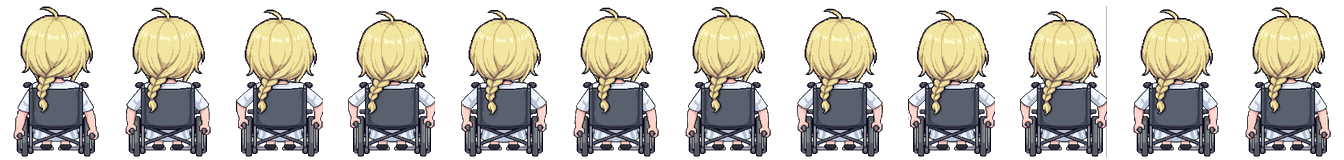
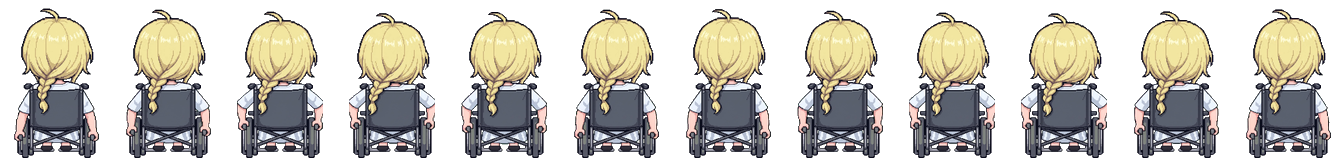
채린 위로 이동 시 허공의 검은 줄 제거 (영상 검은 띠 찌꺼기·떨어진 점 정리)
Claude-Session: https://claude.ai/code/session_01MBgVgKbFxkEXND4zuEcjdV

Changed region(s): [[0.0, 0.0312, 1.0, 1.0]]

diff --git a/tools/sprite_cleanup/chaerin_build.py b/tools/sprite_cleanup/chaerin_build.py
@@ -18,6 +18,7 @@ from pathlib import Path
 
 import numpy as np
 from PIL import Image
+from scipy import ndimage as ndi
 
 HERE = Path(__file__).resolve().parent
 sys.path.insert(0, str(HERE))
@@ -46,7 +47,8 @@ def read_video(path):
 
 def keyed(F, i):
     a = F[i].copy()
-    cols = np.nonzero(~(a.max(2) < 20).all(0))[0]     # 좌우 검은 띠 제거
+    cols = np.nonzero((a.max(2) > 45).mean(0) > 0.5)[0]   # 좌우 검은 띠 제거 (띠 경계의 덜 검은 줄까지)
+    cols = cols[3:-3]
     return Image.fromarray(key_green(a[:, cols[0]:cols[-1] + 1]), "RGBA")
 
 
@@ -84,6 +86,10 @@ def clip_frames(F, start, period, count, head_w):
 def place(o, cx):
     a = np.array(o)
     a[a[..., 3] < 60] = 0          # 영상 압축 때문에 생긴 희미한 테두리 제거
+    lab, n = ndi.label(a[..., 3] > 0)   # 몸에서 떨어진 작은 점·줄(검은 띠 찌꺼기 등) 제거
+    if n > 1:
+        sz = ndi.sum(np.ones(lab.shape), lab, range(1, n + 1))
+        a[np.isin(lab, [i + 1 for i, v in enumerate(sz) if v < 40])] = 0
     o = Image.fromarray(a, "RGBA")
     cell = Image.new("RGBA", (CW, CH))
     cell.alpha_composite(o, (CW // 2 - cx, CH - 2 - o.height))
